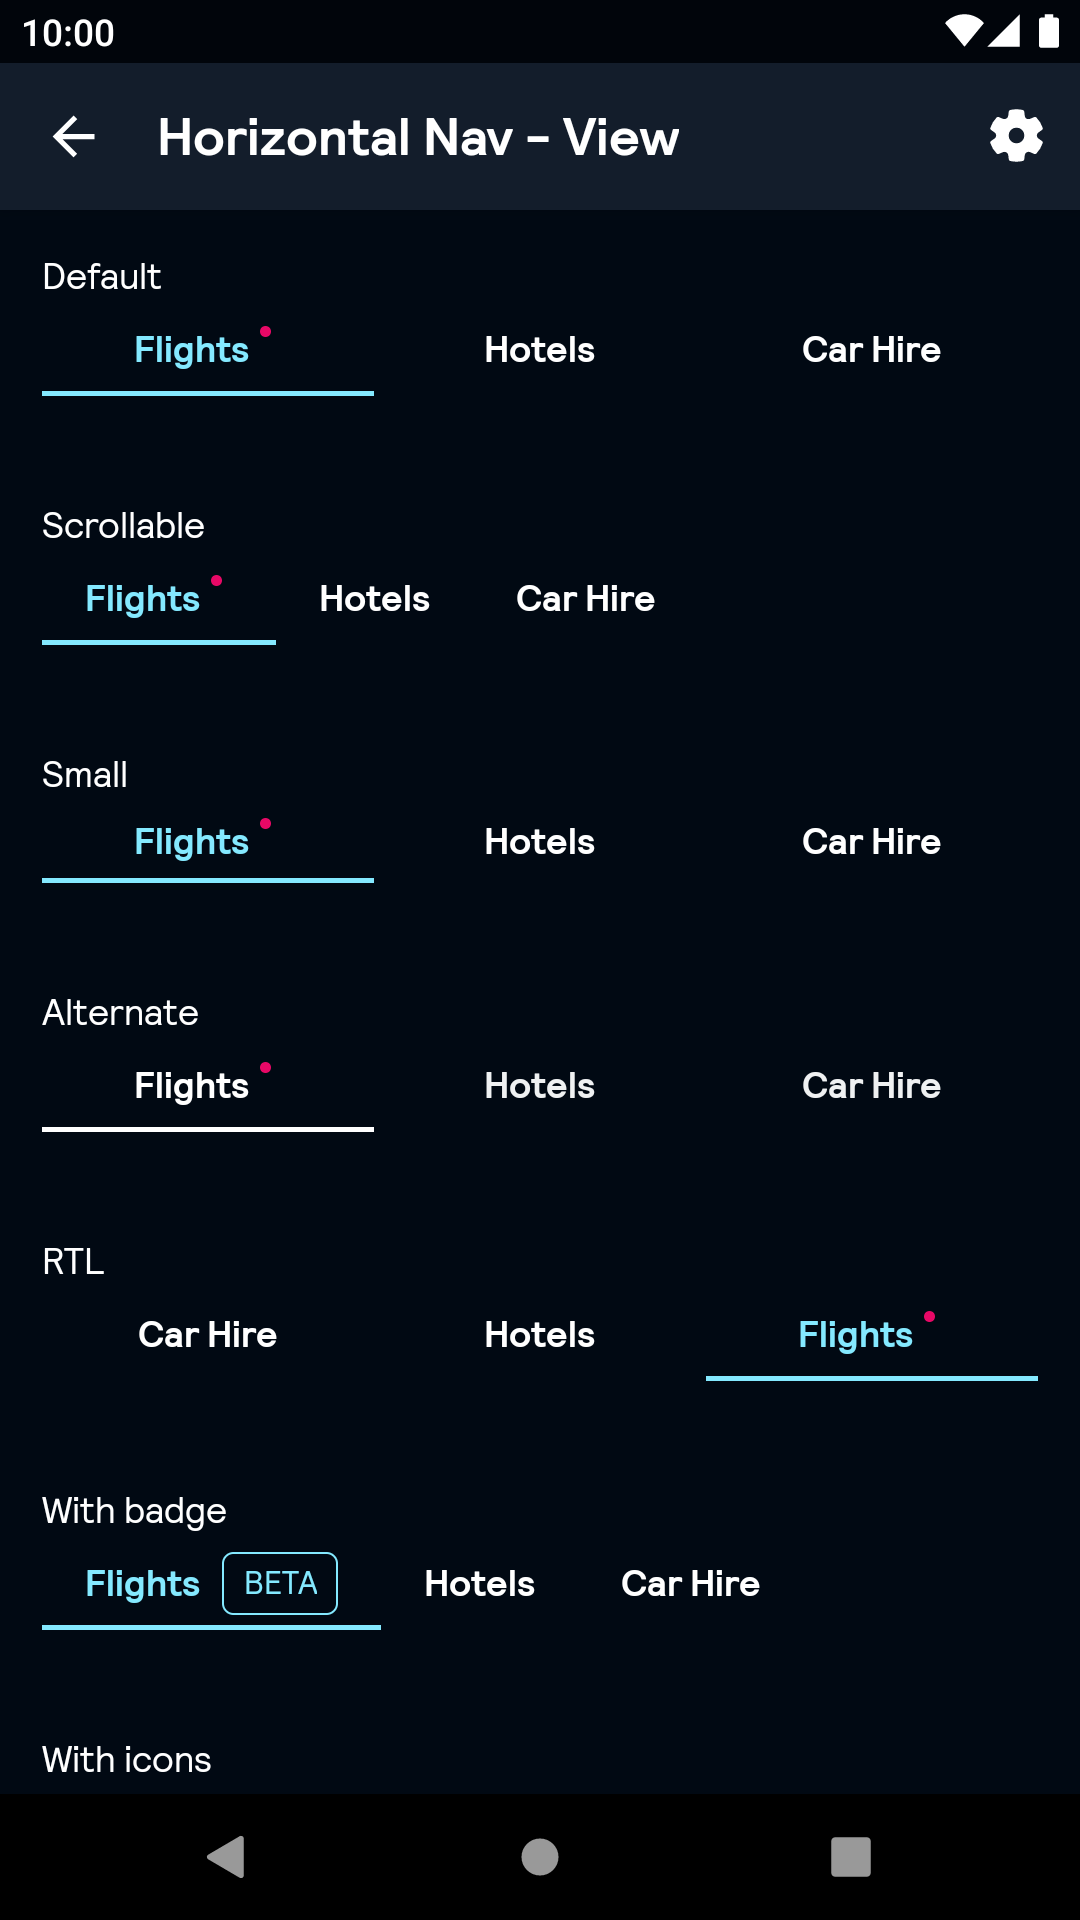
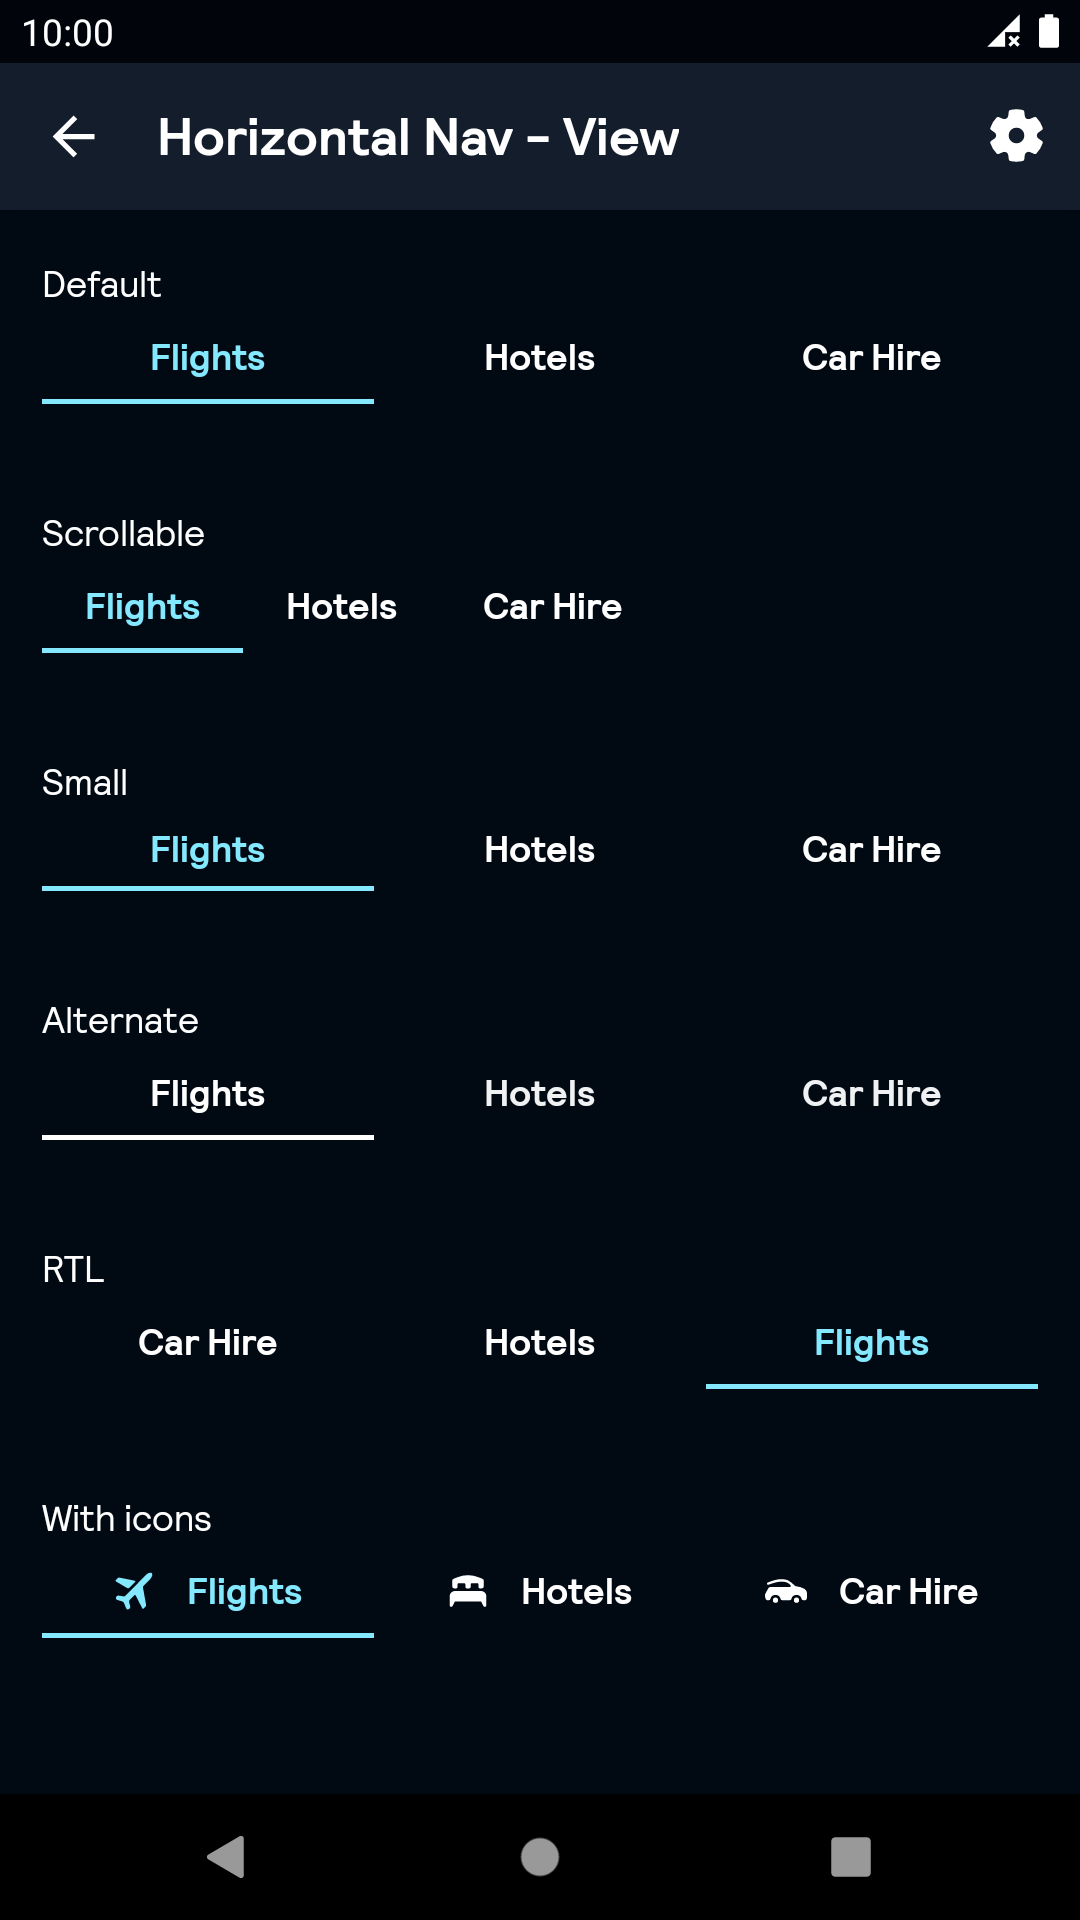
Removed notification dot and badge from BpkHorizontalNav (#1307)
* Removed Badge and NotificationDot from HorizontalNav

* Updated screenshots and snapshots.

* Review changes.

diff --git a/Backpack/src/main/java/net/skyscanner/backpack/horisontalnav/BpkHorizontalNav.kt b/Backpack/src/main/java/net/skyscanner/backpack/horisontalnav/BpkHorizontalNav.kt
@@ -20,13 +20,9 @@ package net.skyscanner.backpack.horisontalnav
 
 import android.content.Context
 import android.content.res.ColorStateList
-import android.graphics.Color
 import android.text.Spannable
 import android.text.SpannableStringBuilder
 import android.util.AttributeSet
-import android.util.SparseArray
-import android.util.SparseBooleanArray
-import android.view.View
 import android.widget.ImageView
 import android.widget.TextView
 import androidx.annotation.AttrRes
@@ -35,8 +31,6 @@ import androidx.annotation.DimenRes
 import androidx.collection.SparseArrayCompat
 import com.google.android.material.tabs.TabLayout
 import net.skyscanner.backpack.R
-import net.skyscanner.backpack.badge.BpkBadge
-import net.skyscanner.backpack.horisontalnav.internal.NotificationDotSpan
 import net.skyscanner.backpack.text.BpkFontSpan
 import net.skyscanner.backpack.text.BpkText
 import net.skyscanner.backpack.util.createContextThemeWrapper
@@ -111,8 +105,6 @@ open class BpkHorizontalNav @JvmOverloads constructor(
 
   private val fontSpan = BpkFontSpan(context, BpkText.TextStyle.Label2)
   private val texts = SparseArrayCompat<CharSequence?>()
-  private val notificationDots = SparseBooleanArray()
-  private val badges = SparseArray<CharSequence?>()
 
   init {
     initialize(attrs, defStyleAttr)
@@ -197,33 +189,14 @@ open class BpkHorizontalNav @JvmOverloads constructor(
     updateTab(position)
   }
 
-  fun setNotificationDot(position: Int, value: Boolean) {
-    notificationDots.put(position, value)
-    updateTab(position)
-  }
-
-  fun setBadge(position: Int, value: CharSequence) {
-    badges.put(position, value)
-    updateTab(position)
-  }
-
   private fun updateTab(position: Int) {
     val tab = getTabAt(position) ?: return
     if (texts.get(position) != null) {
       tab.text = SpannableStringBuilder().apply {
         append(texts.get(position), fontSpan, Spannable.SPAN_INCLUSIVE_INCLUSIVE)
-        if (notificationDots.get(position)) {
-          append(" ", NotificationDotSpan(context), Spannable.SPAN_INCLUSIVE_INCLUSIVE)
-        }
       }
     }
     tab.customView?.apply {
-      findViewById<BpkBadge>(R.id.tab_badge)?.let {
-        it.text = badges.get(position)
-        it.visibility = if (it.length() > 0) View.VISIBLE else View.GONE
-        it.setBackground(ColorStateList.valueOf(Color.TRANSPARENT), tabTextColors!!)
-        it.setTextColor(tabTextColors)
-      }
       findViewById<TextView>(android.R.id.text1)?.setTextColor(tabTextColors)
       findViewById<ImageView>(android.R.id.icon)?.imageTintList = tabTextColors
     }

diff --git a/app/src/main/java/net/skyscanner/backpack/demo/stories/HorizontalNavStory.kt b/app/src/main/java/net/skyscanner/backpack/demo/stories/HorizontalNavStory.kt
@@ -33,7 +33,6 @@ class HorizontalNavStory : Story() {
     init(view.findViewById(R.id.horizontal_nav_small))
     init(view.findViewById(R.id.horizontal_nav_alternate))
     init(view.findViewById(R.id.horizontal_nav_rtl))
-    init(view.findViewById(R.id.horizontal_nav_badge))
     init(view.findViewById(R.id.horizontal_nav_icons))
   }
 
@@ -41,11 +40,6 @@ class HorizontalNavStory : Story() {
     horizontalNav.addTab("Flights", R.drawable.bpk_flight_sm)
     horizontalNav.addTab("Hotels", R.drawable.bpk_hotels_sm)
     horizontalNav.addTab("Car Hire", R.drawable.bpk_cars_sm)
-    if (horizontalNav.id == R.id.horizontal_nav_badge) {
-      horizontalNav.setBadge(0, "BETA")
-    } else if (horizontalNav.id != R.id.horizontal_nav_icons) {
-      horizontalNav.setNotificationDot(0, true)
-    }
   }
 
   private fun BpkHorizontalNav.addTab(tabText: String, @DrawableRes icon: Int) {

diff --git a/app/src/androidTest/java/net/skyscanner/backpack/horizontalnav/BpkHorizontalNavTest.kt b/app/src/androidTest/java/net/skyscanner/backpack/horizontalnav/BpkHorizontalNavTest.kt
@@ -62,19 +62,6 @@ class BpkHorizontalNavTest : BpkSnapshotTest() {
   }
 
   @Test
-  fun screenshotHorizontalNav_notificationDot() {
-    horizontalNav.setNotificationDot(0, true)
-    snap(horizontalNav)
-  }
-
-  @Test
-  fun screenshotHorizontalNav_badge() {
-    horizontalNav.tabMode = TabLayout.MODE_SCROLLABLE
-    horizontalNav.setBadge(0, "Beta")
-    snap(horizontalNav)
-  }
-
-  @Test
   fun screenshotHorizontalNav_icons() {
     val horizontalNav = BpkHorizontalNav(testContext).apply {
       addTab(newTab().setText("Tab 1").setIcon(R.drawable.bpk_cars))

diff --git a/docs/view/HorizontalNav/README.md b/docs/view/HorizontalNav/README.md
@@ -34,8 +34,6 @@ import net.skyscanner.backpack.horisontalnav.BpkHorizontalNav
 BpkHorizontalNav(context).apply {
   addTab(newTab().setText("1"))
   addTab(newTab().setText("2"))
-  setNotificationDot(0, true)
-  setBadge(1, "Beta")
 }
 ```
 
